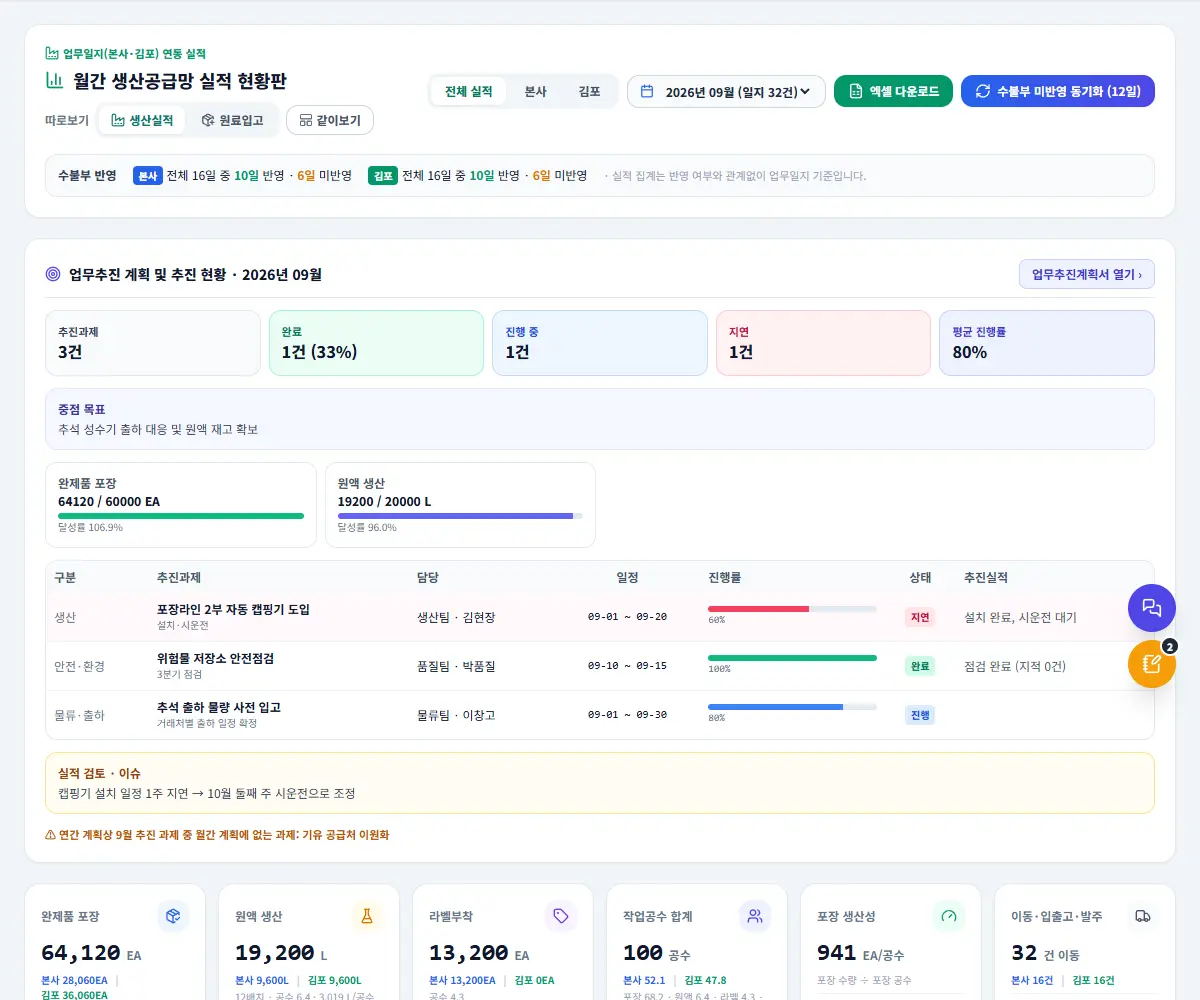
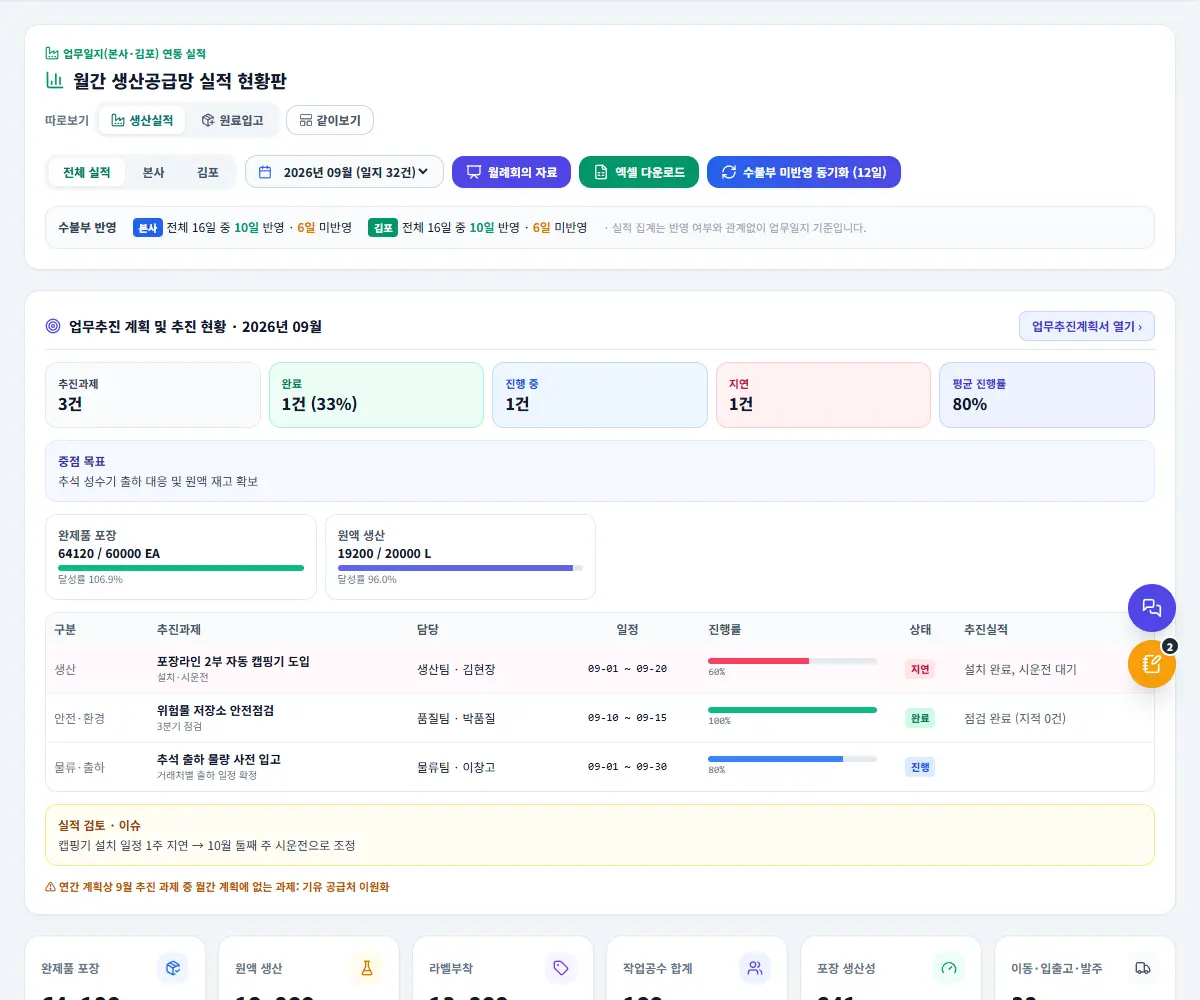
월례회의 자료: 대화창에서 대상 월 선택 (이전·다음 달 이동, 그 달 업무일지 요약 표시, 기본 글 그 달로 다시 채움)

diff --git a/src/components/Analytics.js b/src/components/Analytics.js
@@ -71,6 +71,69 @@ const total = (days) => {
     return t;
 };
 const mhKey = { pack: 'mhPack', oil: 'mhOil', label: 'mhLabel', other: 'mhOther' };
+const allDaysOf = () => Object.entries(SITES).flatMap(([site, s]) => (state[s.key] || []).filter(l => l.date).map(l => summarize(l, site)));
+
+// 보기(전체/본사/김포)·달(YYYY-MM 또는 ALL)의 생산실적 집계 (현황판 화면과 월례회의 자료가 함께 씀)
+const computeProd = (every, view, ym) => {
+    const inView = (d) => view === 'ALL' || d.site === view;
+    const inMonth = (d, m) => m === 'ALL' || d.date.startsWith(m);
+    const days = every.filter(d => inView(d) && inMonth(d, ym)).sort((a, b) => a.date.localeCompare(b.date) || a.site.localeCompare(b.site));
+    const t = total(days);
+    const prevList = ym !== 'ALL' ? every.filter(d => inView(d) && inMonth(d, prevMonthOf(ym))) : [];
+    const prev = ym !== 'ALL' ? total(prevList) : null;
+    const bySite = Object.fromEntries(Object.keys(SITES).map(k => [k, total(days.filter(d => d.site === k))]));
+    const workDays = new Set(days.map(d => d.date)).size;
+    // 전월 비교는 작업일 1일 평균 기준 (전월 일지가 일부만 있어도 왜곡되지 않게)
+    const prevDays = new Set(prevList.map(d => d.date)).size;
+    const packProd = t.mhPack ? t.pack / t.mhPack : 0;
+    const prevPackProd = prev && prev.mhPack ? prev.pack / prev.mhPack : 0;
+    const oilProd = t.mhOil ? t.oil / t.mhOil : 0;
+
+    // 품목별·카테고리별 포장
+    const productMap = new Map();
+    const categoryMap = new Map();
+    days.forEach(d => (d.log.packaging || []).forEach(p => {
+        const q = Number(p.qty) || 0;
+        if (!p.item || q <= 0) return;
+        const e = productMap.get(p.item) || { item: p.item, qty: 0, box: 0, manHours: 0, HQ: 0, GIMPO: 0, category: p.category || '' };
+        e.qty += q; e.box += Number(p.box) || 0; e.manHours += Number(p.manHours) || 0; e[d.site] += q;
+        productMap.set(p.item, e);
+        const c = p.category || '미분류';
+        categoryMap.set(c, (categoryMap.get(c) || 0) + q);
+    }));
+    const products = [...productMap.values()].sort((a, b) => b.qty - a.qty);
+    const categories = [...categoryMap.entries()].sort((a, b) => b[1] - a[1]);
+
+    // 원액 품목별
+    const oilMap = new Map();
+    days.forEach(d => (d.log.oilBlending || []).forEach(o => {
+        const q = Number(o.qty) || 0;
+        if (!o.item || q <= 0) return;
+        const e = oilMap.get(o.item) || { item: o.item, qty: 0, batches: 0, manHours: 0, HQ: 0, GIMPO: 0, lots: [] };
+        e.qty += q; e.batches++; e.manHours += Number(o.manHours) || 0; e[d.site] += q;
+        if (o.lotNo) e.lots.push(o.lotNo);
+        oilMap.set(o.item, e);
+    }));
+    const oils = [...oilMap.values()].sort((a, b) => b.qty - a.qty);
+
+    // 기타업무 종류별 (업무명 → 종류)
+    const taskMap = new Map();
+    days.forEach(d => (d.log.otherTasks || []).forEach(x => {
+        const name = String(x.task || '').trim();
+        if (!name) return;
+        const type = taskTypeOf(name);
+        const g = taskMap.get(type) || { type, count: 0, dates: new Set(), hours: 0, manHours: 0, HQ: 0, GIMPO: 0, names: new Map() };
+        const mh = Number(x.manHours) || 0;
+        g.count++; g.dates.add(d.date); g.hours += Number(x.totalWorkHours) || 0; g.manHours += mh; g[d.site] += mh;
+        const n = g.names.get(name) || { name, count: 0, manHours: 0, hours: 0 };
+        n.count++; n.manHours += mh; n.hours += Number(x.totalWorkHours) || 0;
+        g.names.set(name, n);
+        taskMap.set(type, g);
+    }));
+    const taskGroups = [...taskMap.values()].sort((a, b) => b.manHours - a.manHours || b.count - a.count);
+    const taskTotal = { count: sum(taskGroups, 'count'), hours: sum(taskGroups, 'hours'), manHours: sum(taskGroups, 'manHours') };
+    return { days, t, prev, bySite, workDays, prevDays, packProd, prevPackProd, oilProd, products, categories, oils, taskGroups, taskTotal };
+};
 
 export const renderAnalytics = (container, { showToast = () => {} } = {}) => {
     let saved = {};
@@ -80,7 +143,7 @@ export const renderAnalytics = (container, { showToast = () => {} } = {}) => {
     let board = ['prod', 'raw', 'both'].includes(saved.board) ? saved.board : 'prod';
     let selectedMonth = '';
 
-    const allDays = () => Object.entries(SITES).flatMap(([site, s]) => (state[s.key] || []).filter(l => l.date).map(l => summarize(l, site)));
+    const allDays = allDaysOf;
 
     const renderView = () => {
         try { localStorage.setItem(VIEW_KEY, JSON.stringify({ view, board })); } catch { /* 무시 */ }
@@ -89,62 +152,7 @@ export const renderAnalytics = (container, { showToast = () => {} } = {}) => {
         const showProd = board !== 'raw', showRaw = board !== 'prod';
         const months = [...new Set([...every.map(d => d.date.slice(0, 7)), ...(showRaw ? rawInboundMonths() : [])])].sort().reverse();
         if (!selectedMonth || (selectedMonth !== 'ALL' && !months.includes(selectedMonth))) selectedMonth = months[0] || 'ALL';
-        const inMonth = (d, ym) => ym === 'ALL' || d.date.startsWith(ym);
-        const days = every.filter(d => inView(d) && inMonth(d, selectedMonth)).sort((a, b) => a.date.localeCompare(b.date) || a.site.localeCompare(b.site));
-        const t = total(days);
-        const prevList = selectedMonth !== 'ALL' ? every.filter(d => inView(d) && inMonth(d, prevMonthOf(selectedMonth))) : [];
-        const prev = selectedMonth !== 'ALL' ? total(prevList) : null;
-        const bySite = Object.fromEntries(Object.keys(SITES).map(k => [k, total(days.filter(d => d.site === k))]));
-        const workDays = new Set(days.map(d => d.date)).size;
-        // 전월 비교는 작업일 1일 평균 기준 (전월 일지가 일부만 있어도 왜곡되지 않게)
-        const prevDays = new Set(prevList.map(d => d.date)).size;
-        const packProd = t.mhPack ? t.pack / t.mhPack : 0;
-        const prevPackProd = prev && prev.mhPack ? prev.pack / prev.mhPack : 0;
-        const oilProd = t.mhOil ? t.oil / t.mhOil : 0;
-
-        // 품목별·카테고리별 포장
-        const productMap = new Map();
-        const categoryMap = new Map();
-        days.forEach(d => (d.log.packaging || []).forEach(p => {
-            const q = Number(p.qty) || 0;
-            if (!p.item || q <= 0) return;
-            const e = productMap.get(p.item) || { item: p.item, qty: 0, box: 0, manHours: 0, HQ: 0, GIMPO: 0, category: p.category || '' };
-            e.qty += q; e.box += Number(p.box) || 0; e.manHours += Number(p.manHours) || 0; e[d.site] += q;
-            productMap.set(p.item, e);
-            const c = p.category || '미분류';
-            categoryMap.set(c, (categoryMap.get(c) || 0) + q);
-        }));
-        const products = [...productMap.values()].sort((a, b) => b.qty - a.qty);
-        const categories = [...categoryMap.entries()].sort((a, b) => b[1] - a[1]);
-
-        // 원액 품목별
-        const oilMap = new Map();
-        days.forEach(d => (d.log.oilBlending || []).forEach(o => {
-            const q = Number(o.qty) || 0;
-            if (!o.item || q <= 0) return;
-            const e = oilMap.get(o.item) || { item: o.item, qty: 0, batches: 0, manHours: 0, HQ: 0, GIMPO: 0, lots: [] };
-            e.qty += q; e.batches++; e.manHours += Number(o.manHours) || 0; e[d.site] += q;
-            if (o.lotNo) e.lots.push(o.lotNo);
-            oilMap.set(o.item, e);
-        }));
-        const oils = [...oilMap.values()].sort((a, b) => b.qty - a.qty);
-
-        // 기타업무 종류별 (업무명 → 종류)
-        const taskMap = new Map();
-        days.forEach(d => (d.log.otherTasks || []).forEach(x => {
-            const name = String(x.task || '').trim();
-            if (!name) return;
-            const type = taskTypeOf(name);
-            const g = taskMap.get(type) || { type, count: 0, dates: new Set(), hours: 0, manHours: 0, HQ: 0, GIMPO: 0, names: new Map() };
-            const mh = Number(x.manHours) || 0;
-            g.count++; g.dates.add(d.date); g.hours += Number(x.totalWorkHours) || 0; g.manHours += mh; g[d.site] += mh;
-            const n = g.names.get(name) || { name, count: 0, manHours: 0, hours: 0 };
-            n.count++; n.manHours += mh; n.hours += Number(x.totalWorkHours) || 0;
-            g.names.set(name, n);
-            taskMap.set(type, g);
-        }));
-        const taskGroups = [...taskMap.values()].sort((a, b) => b.manHours - a.manHours || b.count - a.count);
-        const taskTotal = { count: sum(taskGroups, 'count'), hours: sum(taskGroups, 'hours'), manHours: sum(taskGroups, 'manHours') };
+        const { days, t, prev, bySite, workDays, prevDays, packProd, prevPackProd, oilProd, products, categories, oils, taskGroups, taskTotal } = computeProd(every, view, selectedMonth);
 
         // 수불부 반영 현황 (보고 있는 거점)
         const syncSites = view === 'ALL' ? Object.keys(SITES) : [view];
@@ -314,9 +322,14 @@ export const renderAnalytics = (container, { showToast = () => {} } = {}) => {
 
         container.querySelectorAll('.an-view').forEach(b => b.addEventListener('click', () => { view = b.dataset.v; renderView(); }));
         container.querySelectorAll('.an-board').forEach(b => b.addEventListener('click', () => { board = b.dataset.b; renderView(); }));
-        container.querySelector('#btn-monthly-meeting')?.addEventListener('click', () => openMeetingDialog({
-            ym: selectedMonth, view, days, t, prev, workDays, prevDays, bySite, products, categories, oils, taskGroups, packProd, prevPackProd, oilProd
-        }, { showToast }));
+        // 월례회의 자료: 달을 대화창에서 고른다 (기본 = 보고 있는 달, 전체 기간이면 가장 최근 달)
+        container.querySelector('#btn-monthly-meeting')?.addEventListener('click', () => {
+            const meetingMonths = [...new Set([...every.map(d => d.date.slice(0, 7)), ...rawInboundMonths(), localDateStr().slice(0, 7)])].sort().reverse();
+            openMeetingDialog({
+                ym: selectedMonth === 'ALL' ? meetingMonths[0] : selectedMonth, view, months: meetingMonths,
+                snapFor: (m) => ({ ym: m, view, ...computeProd(allDaysOf(), view, m) })
+            }, { showToast });
+        });
         // 업무추진 현황: 전체 기간이면 이번 달
         renderWorkStatus(container.querySelector('#an-work'), selectedMonth === 'ALL' ? localDateStr().slice(0, 7) : selectedMonth).then(() => createIcons({ icons }));
         container.querySelector('#analytics-month-select')?.addEventListener('change', (e) => { selectedMonth = e.target.value; renderView(); });

diff --git a/src/components/analytics/monthlyMeeting.js b/src/components/analytics/monthlyMeeting.js
@@ -19,7 +19,7 @@ const SITE_LABEL = { HQ: '본사', GIMPO: '김포' };
 const SITE_COLOR = { HQ: '#2563eb', GIMPO: '#059669' };
 export const MEETING_SECTIONS = [
     ['prod', '생산 실적 (포장·카테고리·TOP 10)'], ['oil', '원액 생산 · 작업공수'], ['raw', '원료입고 실적'],
-    ['plan', '이달 생산계획 대비 실적'], ['purch', '이달 구매계획 이행'], ['work', '업무추진 현황'],
+    ['plan', '생산계획 대비 실적'], ['purch', '구매계획 이행'], ['work', '업무추진 현황'],
     ['next', '다음 달 생산·구매계획 · 중점 추진'], ['issue', '이슈 · 건의사항']
 ];
 const fmt = (n, d = 0) => (Number(n) || 0).toLocaleString('ko-KR', { maximumFractionDigits: d });
@@ -427,8 +427,11 @@ export const exportMeetingPpt = async (D) => {
 };
 
 // ---------- 대화창 ----------
-export const openMeetingDialog = (snap, { showToast = () => {} } = {}) => {
-    if (!snap || !snap.ym || snap.ym === 'ALL') { alert('월례회의 자료는 한 달 단위로 만듭니다. 위쪽 분석 월에서 달을 고르세요.'); return; }
+// ctx = { ym: 처음 고를 달, view, months: 고를 수 있는 달(최근 순), snapFor(ym) → 그 달 생산실적 스냅숏 }
+export const openMeetingDialog = (ctx, { showToast = () => {} } = {}) => {
+    let ym = ctx.ym && ctx.ym !== 'ALL' ? ctx.ym : localDateStr().slice(0, 7);
+    const months = [...new Set([...(ctx.months || []), ym])].sort().reverse();
+    const siteText = SITE_LABEL[ctx.view] || '전체 (본사·김포)';
     let saved = {};
     try { saved = JSON.parse(localStorage.getItem(OPTS_KEY) || '{}'); } catch { }
     const sections = Array.isArray(saved.sections) ? saved.sections : MEETING_SECTIONS.map(([k]) => k);
@@ -440,10 +443,19 @@ export const openMeetingDialog = (snap, { showToast = () => {} } = {}) => {
         <div class="bg-white rounded-2xl shadow-2xl w-full max-w-2xl max-h-[92vh] overflow-y-auto">
             <div class="flex items-center justify-between px-5 py-4 border-b border-slate-200">
                 <div><h3 class="text-base font-black text-slate-900 flex items-center gap-2"><i data-lucide="presentation" class="w-5 h-5 text-indigo-600"></i>월례회의 자료 만들기</h3>
-                    <p class="text-[11px] text-slate-500 mt-0.5">${esc(ymLabel(snap.ym))} · ${esc(SITE_LABEL[snap.view] || '전체 (본사·김포)')} — 월간 실적 현황판 · 월간 생산계획 · 월간 구매계획 · 업무추진계획서 기준</p></div>
+                    <p class="text-[11px] text-slate-500 mt-0.5">${esc(siteText)} — 월간 실적 현황판 · 월간 생산계획 · 월간 구매계획 · 업무추진계획서 기준</p></div>
                 <button type="button" class="mt-close text-slate-400 hover:text-slate-700 text-2xl leading-none">&times;</button>
             </div>
             <div class="p-5 space-y-4 text-xs">
+                <div class="flex flex-wrap items-end gap-3 p-3 rounded-xl bg-indigo-50 border border-indigo-200">
+                    <label class="block"><span class="font-black text-indigo-800">회의 자료 대상 월</span>
+                        <select id="mt-month" class="mt-1 block border border-indigo-300 rounded-lg px-2 py-1.5 font-black text-slate-900 min-w-[150px]">${months.map(m => `<option value="${m}" ${m === ym ? 'selected' : ''}>${esc(ymLabel(m))}</option>`).join('')}</select></label>
+                    <div class="flex gap-1">
+                        <button type="button" id="mt-prev" class="px-2.5 py-1.5 rounded-lg bg-white border border-indigo-200 font-black" title="이전 달">‹</button>
+                        <button type="button" id="mt-next-m" class="px-2.5 py-1.5 rounded-lg bg-white border border-indigo-200 font-black" title="다음 달">›</button>
+                    </div>
+                    <p id="mt-sub" class="text-[11px] text-indigo-900 flex-1 min-w-[220px]"></p>
+                </div>
                 <div class="grid grid-cols-1 sm:grid-cols-3 gap-3">
                     <label class="block"><span class="font-bold text-slate-600">부서</span><input id="mt-dept" value="${esc(saved.dept || '생산공급망팀')}" class="mt-1 w-full border border-slate-300 rounded-lg px-2 py-1.5" /></label>
                     <label class="block"><span class="font-bold text-slate-600">회의 일자</span><input id="mt-date" type="date" value="${esc(localDateStr())}" class="mt-1 w-full border border-slate-300 rounded-lg px-2 py-1.5" /></label>
@@ -451,7 +463,7 @@ export const openMeetingDialog = (snap, { showToast = () => {} } = {}) => {
                 </div>
                 <div><div class="font-bold text-slate-600 mb-1">넣을 항목 <span class="font-normal text-slate-400">(핵심 요약은 항상 들어갑니다)</span></div>
                     <div class="grid grid-cols-1 sm:grid-cols-2 gap-1.5">${MEETING_SECTIONS.map(([k, l]) => `<label class="flex items-center gap-2 px-2.5 py-1.5 rounded-lg border border-slate-200 hover:bg-slate-50 cursor-pointer"><input type="checkbox" class="mt-sec accent-indigo-600" value="${k}" ${sections.includes(k) ? 'checked' : ''} />${esc(l)}</label>`).join('')}</div></div>
-                <label class="block"><span class="font-bold text-slate-600">다음 달 중점 추진사항</span>
+                <label class="block"><span id="mt-next-label" class="font-bold text-slate-600">다음 달 중점 추진사항</span>
                     <textarea id="mt-next" rows="3" class="mt-1 w-full border border-slate-300 rounded-lg px-2 py-1.5" placeholder="불러오는 중..."></textarea></label>
                 <label class="block"><span class="font-bold text-slate-600">이슈 · 건의사항</span>
                     <textarea id="mt-issues" rows="4" class="mt-1 w-full border border-slate-300 rounded-lg px-2 py-1.5" placeholder="불러오는 중..."></textarea></label>
@@ -471,14 +483,31 @@ export const openMeetingDialog = (snap, { showToast = () => {} } = {}) => {
     el.querySelectorAll('.mt-close').forEach(b => b.addEventListener('click', close));
     el.addEventListener('click', (e) => { if (e.target === el) close(); });
 
-    // 기본 글: 업무추진계획서·생산계획 비고
-    Promise.all([loadWorkPlan('WORK_MONTH', snap.ym), loadWorkPlan('WORK_MONTH', nextMonth(snap.ym)), getPlan('PROD_MONTH', nextMonth(snap.ym))]).then(([w, wn, pn]) => {
-        if (!$('#mt-next')) return;
-        $('#mt-next').placeholder = '예) 10월 성수기 출하 대응, 충진기 설치·시운전';
-        $('#mt-issues').placeholder = '예) 원료 납기 지연 우려, 인력 충원 요청';
-        if (!$('#mt-next').value) $('#mt-next').value = [wn.goal, pn?.goals, pn?.notes].filter(Boolean).join('\n');
-        if (!$('#mt-issues').value) $('#mt-issues').value = [w.review, w.notes].filter(Boolean).join('\n');
-    }).catch(() => { });
+    // 달 바꾸기: 기본 글(업무추진계획서·생산계획 비고)을 그 달 것으로 다시 채운다 (직접 고친 칸은 그대로)
+    const edited = { next: false, issues: false };
+    $('#mt-next').addEventListener('input', () => { edited.next = true; });
+    $('#mt-issues').addEventListener('input', () => { edited.issues = true; });
+    let loadSeq = 0;
+    const setMonth = (m) => {
+        ym = m;
+        if (!months.includes(m)) { months.push(m); months.sort().reverse(); $('#mt-month').innerHTML = months.map(x => `<option value="${x}">${esc(ymLabel(x))}</option>`).join(''); }
+        $('#mt-month').value = m;
+        const s = ctx.snapFor(m);
+        $('#mt-sub').innerHTML = `<b>${esc(ymLabel(m))}</b> 업무일지 ${s.workDays}일 · 포장 ${fmt(s.t.pack)} EA · 원액 ${fmt(s.t.oil)} L${s.workDays ? '' : ' <span class="text-rose-600 font-bold">(이 달 업무일지 없음)</span>'} · 다음 달 = ${esc(ymLabel(nextMonth(m)))}`;
+        $('#mt-next-label').textContent = `다음 달(${ymLabel(nextMonth(m))}) 중점 추진사항`;
+        const seq = ++loadSeq;
+        Promise.all([loadWorkPlan('WORK_MONTH', m), loadWorkPlan('WORK_MONTH', nextMonth(m)), getPlan('PROD_MONTH', nextMonth(m))]).then(([w, wn, pn]) => {
+            if (seq !== loadSeq || !$('#mt-next')) return;
+            $('#mt-next').placeholder = '예) 성수기 출하 대응, 충진기 설치·시운전';
+            $('#mt-issues').placeholder = '예) 원료 납기 지연 우려, 인력 충원 요청';
+            if (!edited.next) $('#mt-next').value = [wn.goal, pn?.goals, pn?.notes].filter(Boolean).join('\n');
+            if (!edited.issues) $('#mt-issues').value = [w.review, w.notes].filter(Boolean).join('\n');
+        }).catch(() => { });
+    };
+    $('#mt-month').addEventListener('change', (e) => setMonth(e.target.value));
+    $('#mt-prev').addEventListener('click', () => setMonth(prevMonth(ym)));
+    $('#mt-next-m').addEventListener('click', () => setMonth(nextMonth(ym)));
+    setMonth(ym);
 
     const form = () => {
         const f = {
@@ -493,7 +522,7 @@ export const openMeetingDialog = (snap, { showToast = () => {} } = {}) => {
         busy.classList.remove('hidden');
         el.querySelectorAll('#mt-pdf, #mt-ppt').forEach(b => { b.disabled = true; });
         try {
-            const D = await collectMeetingData(snap, form());
+            const D = await collectMeetingData(ctx.snapFor(ym), form());
             await fn(D, ...(win ? [win] : []));
             showToast(`📑 월례회의 ${label}를 만들었습니다.`);
         } catch (e) {

diff --git a/src/data/manualContent.js b/src/data/manualContent.js
@@ -1025,8 +1025,9 @@ const USER_MANUAL = {
                     title: '월례회의 자료 만들기 (PPT · PDF 보고서)',
                     image: 'meeting-dialog.webp', caption: '월례회의 자료: 부서·회의 일자·보고자, 넣을 항목, 다음 달 중점 추진사항, 이슈·건의사항',
                     steps: [
-                        '위쪽에서 보기(`전체 실적`/`본사`/`김포`)와 **분석 월**(한 달)을 고른 뒤 `월례회의 자료`를 누릅니다.',
-                        '부서·회의 일자·보고자를 확인하고 **넣을 항목**을 고릅니다: 생산 실적, 원액 생산·작업공수, 원료입고 실적, 이달 생산계획 대비 실적, 이달 구매계획 이행, 업무추진 현황, 다음 달 생산·구매계획·중점 추진, 이슈·건의사항 (핵심 요약은 항상 들어갑니다).',
+                        '위쪽에서 보기(`전체 실적`/`본사`/`김포`)를 고르고 `월례회의 자료`를 누릅니다.',
+                        '맨 위 **회의 자료 대상 월**에서 달을 고릅니다(‹ › 로 이전·다음 달). 처음에는 현황판에서 보고 있는 달이 골라져 있고, 그 달의 업무일지 일수·포장·원액 합계가 옆에 나옵니다. "다음 달" 계획은 고른 달의 다음 달입니다.',
+                        '부서·회의 일자·보고자를 확인하고 **넣을 항목**을 고릅니다: 생산 실적, 원액 생산·작업공수, 원료입고 실적, 생산계획 대비 실적, 구매계획 이행(고른 달), 업무추진 현황, 다음 달 생산·구매계획·중점 추진, 이슈·건의사항 (핵심 요약은 항상 들어갑니다).',
                         '**다음 달 중점 추진사항**과 **이슈·건의사항**은 업무추진계획서(이달 실적 검토·비고, 다음 달 중점 목표)와 다음 달 월간 생산계획 비고에서 처음 채워 둡니다. 회의에 맞게 고칩니다.',
                         '`PPT 내려받기`: 16:9 발표 자료(.pptx)를 내려받습니다. 표지·목차·핵심 요약(8칸)·항목별 슬라이드로 되어 있고, 그래프와 표는 **PowerPoint에서 바로 고칠 수 있는** 차트·표입니다.',
                         '`PDF 보고서`: A4 세로 보고서(결재란 작성·검토·승인)를 새 창에 열고 인쇄 창을 띄웁니다. 프린터에서 **PDF로 저장**을 고르면 PDF 파일이 됩니다.'
